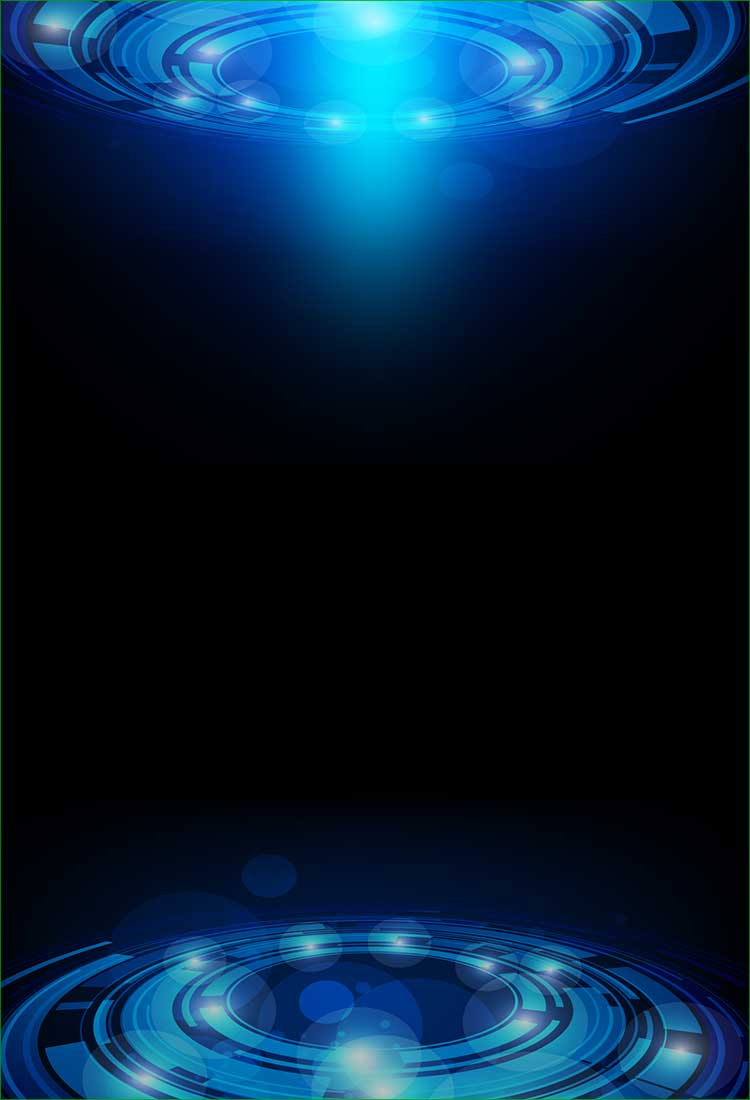
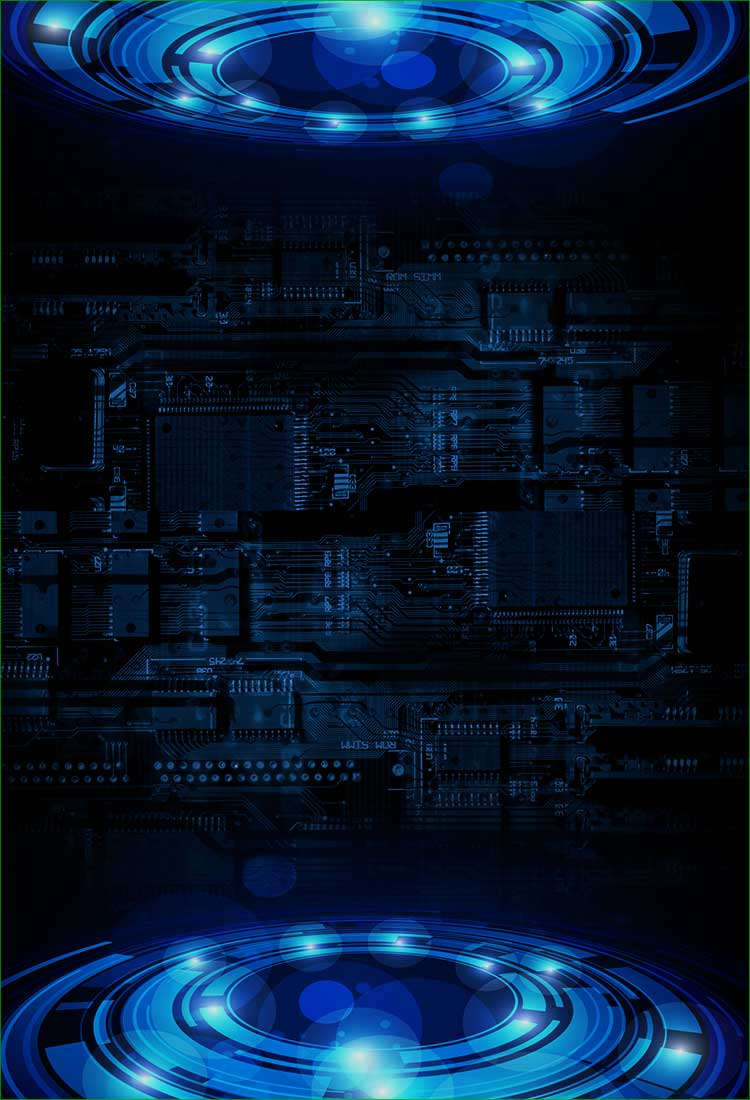
remove img

diff --git a/movie.html b/movie.html
@@ -35,8 +35,9 @@
         
         next(function () {
             $("#card").velocity({rotateX:[75,0]},{duration:500,easing:"linear"})
-                      .velocity({rotateZ:360},{duration:750,easing:"linear",loop:true});
+                      .velocity({rotateZ:360},{duration:750,easing:"linear",loop:2});
             $("#eff").velocity({scaleX:[0,2],scaleY:[0,2],opacity:[0,1]},{duration:1500,easing:"ease-in"});
+            $("#bg_pole").velocity({scaleX:[1.5,1]},{duration:1500,easing:"linear",loop:true});
             return wait(1);
 
         }).
@@ -191,7 +192,24 @@
         <div id="animelim">
           <div id="scene1">
               <div id="bg" class="bg"><img src="img/bg_a_1.jpg"></div>
-              <div id="card" class="card"><img src="img/ef_c_1.png"></div>
+              <div id="bg_pole" class="bg"><img src="img/ef_f_1.jpg"></div>
+              <div id="bg_effWrap1" class="effWrap opacityMov1">
+              <div id="bg_eff1" style="background-image: url(img/ef_b_1.jpg)" class="bg_eff bgEffMove1"></div>
+              </div>
+
+              <div id="bg_effWrap2" class="effWrap opacityMov2">
+              <div id="bg_eff2" style="background-image: url(img/ef_b_2.jpg)" class="bg_eff bgEffMove2"></div>
+              </div>
+
+              <div id="bg_effWrap3" class="effWrap opacityMov3">
+              <div id="bg_eff3" style="background-image: url(img/ef_b_3.jpg)" class="bg_eff bgEffMove3"></div>
+              </div>
+
+              <div id="bg_effWrap4" class="effWrap opacityMov4">
+              <div id="bg_eff4" style="background-image: url(img/ef_b_4.jpg)" class="bg_eff bgEffMove4"></div>
+              </div>
+              
+              <!--<div id="card" class="card"><img src="img/ef_c_1.png"></div>-->
               <div id="eff" class="eff"><img src="img/ef_c_1.jpg"></div>
               <div id="eff1" class="eff"><img src="img/ef_d_1.jpg"></div>
               

diff --git a/css/anime.css b/css/anime.css
@@ -16,7 +16,76 @@
 
 }
 
+.bg_eff{width:1280px;height:550px;background: url(../img/ef_b_4.jpg) left top/50% 100% repeat-x;left: -905px;top: 0px;mix-blend-mode: screen;}
+.effWrap{mix-blend-mode: screen;}
 
+#bg_pole{mix-blend-mode: screen;}
+@keyframes bg_eff_move {
+	0% {transform:translate(0px, 0px);}
+	100% {transform:translate(640px, 0px);}
+}
+
+@keyframes opacitymov {
+	0% {opacity:0.9;}
+	50% {opacity:0.3;}
+	100% {opacity:0.9;}
+}
+
+.opacityMov1 {
+	animation-name: opacitymov;
+	animation-duration: 2s;
+	animation-timing-function: linear;
+	animation-iteration-count: infinite;
+}
+
+.opacityMov2 {
+	animation-name: opacitymov;
+	animation-duration: 5s;
+	animation-timing-function: linear;
+	animation-iteration-count: infinite;
+}
+
+.opacityMov3 {
+	animation-name: opacitymov;
+	animation-duration: 9s;
+	animation-timing-function: linear;
+	animation-iteration-count: infinite;
+}
+
+.opacityMov4 {
+	animation-name: opacitymov;
+	animation-duration: 8s;
+	animation-timing-function: linear;
+	animation-iteration-count: infinite;
+}
+
+.bgEffMove1 {
+	animation-name: bg_eff_move;
+	animation-duration: 10s;
+	animation-timing-function: linear;
+	animation-iteration-count: infinite;
+}
+
+.bgEffMove2 {
+	animation-name: bg_eff_move;
+	animation-duration: 15s;
+	animation-timing-function: linear;
+	animation-iteration-count: infinite;
+}
+
+.bgEffMove3 {
+	animation-name: bg_eff_move;
+	animation-duration: 22s;
+	animation-timing-function: linear;
+	animation-iteration-count: infinite;
+}
+
+.bgEffMove4 {
+	animation-name: bg_eff_move;
+	animation-duration: 25s;
+	animation-timing-function: linear;
+	animation-iteration-count: infinite;
+}
 
 @-webkit-keyframes kaminari_one {
 	0% {opacity: 1;}
